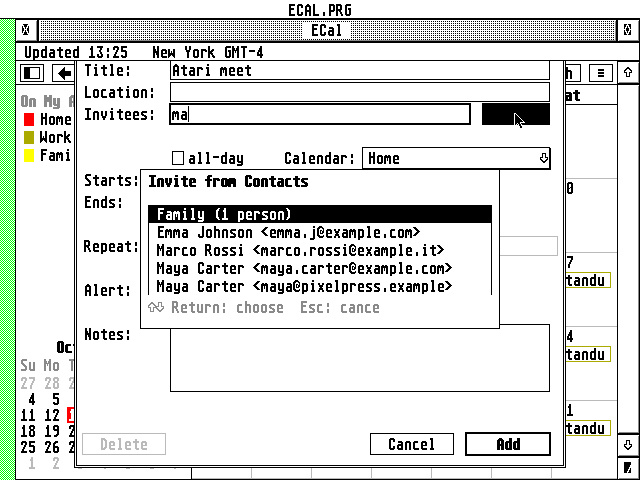
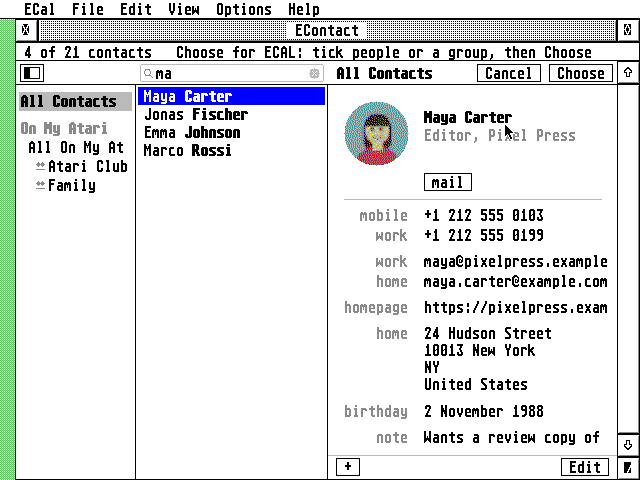
docs_shots.py with ECal 2.9 and EMail 1.37, their releases
common/ at f071e94 (getrelease.py reads the release behind the cloud
proxy). ECal's New Event has People and Add... asks for a name, then
EContact's window opens to choose: the rig goes that way now (it typed
into Starts with 2.9). The shots of EMail and ECal are taken again from
their latest releases (EMail v1.37, ECal v2.9) and the guide and README
say what they show.

Claude-Session: https://claude.ai/code/session_01JWXrCb5ck666x9DhJcKbCz

diff --git a/tests/hatari/docs_shots.py b/tests/hatari/docs_shots.py
@@ -11,7 +11,8 @@ sample contacts (tests/hatari/sample.vcf, made-up people):
 later: it asks with PEOPLE) and ECal (2.5 or later): their latest
 releases, what Erez runs (the guidelines, 1.2), or the one named, fetched
 by common/tools/getrelease.py; the shots' folders say which (*.VERSION).
---ecal-src names a checkout of ECal (../ecal if not given) for its test
+--ecal-src names a checkout of ECal (../ecal if not given, with its
+build/cal-cli made) for its test
 data only: ui_tour.seed() writes the calendar the shots show.
 They land in WORK/*/shots; --update copies them into docs/.
 """
@@ -168,18 +169,14 @@ def with_ecal(work, tos, spec, ecal_src):
         r.ctrl("n")
         time.sleep(2)
         r.type("Atari meet", pace=0.07)
-        r.key(K["TAB"])
-        r.key(K["TAB"])
-        r.type("ma", pace=0.1)
-        r.click(515, 114)               # Add...
+        r.click(505, 125)               # People: Add...
         time.sleep(2)
+        r.type("ma", pace=0.1)          # Name or address
+        r.key(K["RETURN"])              # OK: ECal asks EContact (PEOPLE pick:)
+        time.sleep(8)                   # EContact's window, choosing, and its photo
         r.shot("ecal-invite")
-        r.key(K["RETURN"])
-        time.sleep(1.5)
-        r.click(515, 114)
-        time.sleep(2)
-        r.key(K["RETURN"])              # the Atari Club group, all of it
-        time.sleep(1.5)
+        r.key(K["RETURN"])              # Choose: the one chosen
+        time.sleep(4)
         r.shot("ecal-invitees")
         r.key(K["ESC"])
     finally:

diff --git a/README.md b/README.md
@@ -132,14 +132,14 @@ EContact is the address book of the other two:
 - **EMail**: the addresses it shows carry EContact's names, and its address book picks people or a
   group in EContact's window (Choose or Cancel in the toolbar). EContact's **mail** button, or a double-click on an address, opens a new message to that
   person in EMail.
-- **ECal**: an event has **Invitees**; **Add...** picks people or a whole group from EContact (or type
-  addresses). iCloud and other CalDAV servers that do scheduling (RFC 6638) send the invitations by
+- **ECal**: an event has **People**; **Add...** picks people or a whole group from EContact (or takes
+  an address). iCloud and other CalDAV servers that do scheduling (RFC 6638) send the invitations by
   email. An invitation from someone else shows who sent it.
 - Both have **Contacts...** in their menu to open EContact's window.
 
-![EMail's ^B in a new message: "gr" on the To: line offers the Atari Club group and Grace Baker from EContact](docs/email-complete.png) ![ECal's New Event dialog with Priya Patel on the Invitees line, picked from EContact with Add...](docs/ecal-invitees.png)
+![EMail's ^B in a new message: "gr" on the To: line opens EContact's window to choose, with Grace Baker found](docs/email-complete.png) ![ECal's New Event dialog with Maya Carter under People, chosen in EContact's window with Add...](docs/ecal-invitees.png)
 
-They ask EContact with the family's PEOPLE message (EMail 1.35 and ECal's next releases):
+They ask EContact with the family's PEOPLE message (EMail 1.35 and ECal 2.5 or later):
 [docs/INTEGRATION.md](docs/INTEGRATION.md) describes how the three talk, so other programs can use
 EContact too.
 

diff --git a/docs/GUIDE.md b/docs/GUIDE.md
@@ -290,13 +290,14 @@ When EMail or ECal asks you to choose, EContact's window opens with
 **Cancel** and **Choose** in place of Refresh and the menu: click people
 to tick them (a double click chooses at once), or choose a group on the
 left, then **Choose** (Return); **Cancel** (Esc), closing the window or
-quitting chooses no one. In EMail 1.35 and ECal's next releases:
+quitting chooses no one. In EMail 1.35 and ECal 2.5 or later:
 
-- **EMail**: the addresses it shows carry EContact's names, and its
-  address book picks people or a group in EContact's window.
-- **ECal**: an event's **Invitees** line takes addresses; **Add...** picks
-  people or a group in EContact's window, searching for a name begun on
-  the line.
+- **EMail**: the addresses it shows carry EContact's names; ^B on a To:
+  line, and its address book, pick people or a group in EContact's
+  window, searching for the name begun on the line.
+- **ECal**: **Add...** by an event's **People** asks for a name or an
+  address, and EContact's window opens searching for it: choose people
+  or a group there.
   The invitations are written as the event's attendees, with you (the
   account's Apple ID or email user name) as organizer, and iCloud sends
   them. An invitation you received shows who it is from.
